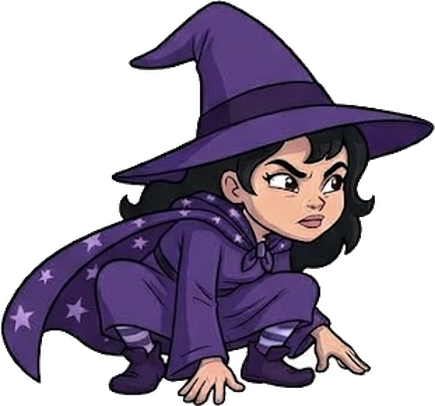
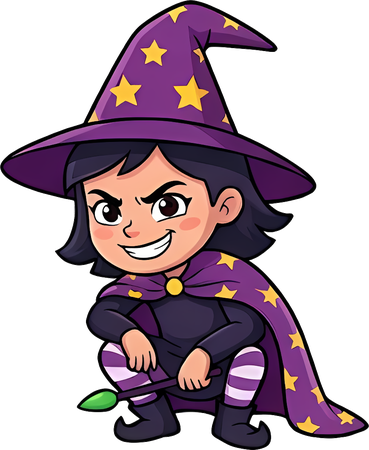
Cambia Dragones y fantasía por las imágenes nuevas en alta calidad
Personajes, poses, dragones bebés, tesoro, lo que cruza la pantalla, los 5
fondos y la escena final nuevos, pasados a 16:9. El Mago Abuelo suma poses de
cubrirse y huir, y Morgana una escena espiando desde un lado (con sus frases
de amenaza). Se quitan las poses de celebrar viejas.

diff --git a/assets/manifest.js b/assets/manifest.js
@@ -73,19 +73,21 @@ window.ASSETS = {
     villain_laugh: 'dragones/morgana_risa.png',          // escenas de fondo: se asoma con la varita
     villain_taunt: 'dragones/morgana_agachada.png',      // presenta el capítulo 4
     villain_scared: 'dragones/morgana_asustada.png',     // huye del Hada del Bosque
+    villain_run:   'dragones/morgana_corriendo.png',
+    villain_face:  'dragones/morgana_cara.png',          // espía desde un lado
     friend2_help:  'dragones/mago_ayuda.png',            // pelea: el Mago Abuelo suplica asustado
+    friend2_cower: 'dragones/mago_cubre.png',            // pelea: se cubre cuando lo atacan
+    friend2_flee:  'dragones/mago_huye.png',
     treasure: 'dragones/tesoro_gema.png',
     friend1: 'dragones/hada_del_bosque.png',
     friend2: 'dragones/mago_abuelo.png',
     friend3: 'dragones/hechicera_buena.png',
-    friend1_cheer: 'dragones/hada_celebra.png',
-    friend2_cheer: 'dragones/mago_celebra.png',
-    friend3_cheer: 'dragones/hechicera_celebra.png',
+    end:     'dragones/final.jpg',
     bg_1:    'dragones/fondo_1_nido.jpg',
     bg_2:    'dragones/fondo_2_bosque.jpg',
-    bg_3:    'dragones/fondo_3_el_rio.png',
-    bg_4:    'dragones/fondo_4_la_cueva.png',
-    bg_5:    'dragones/fondo_5_el_volcan.png',
+    bg_3:    'dragones/fondo_3_el_rio.jpg',
+    bg_4:    'dragones/fondo_4_la_cueva.jpg',
+    bg_5:    'dragones/fondo_5_el_volcan.jpg',
     distractor_mariposa:   'dragones/mariposa.png',
     distractor_murcielago: 'dragones/murcielago.png',
     distractor_ardilla:    'dragones/ardilla.png'

diff --git a/juego/modos/historia/mundos/dragones.js b/juego/modos/historia/mundos/dragones.js
@@ -83,7 +83,8 @@ registrarMundo('fantasy', {
       { name: 'pelea_morgana_mago', kind: 'fight', friend: 'friend2', voice: 'ayuda', minLevel: 2 },
       { name: 'morgana_se_asoma', kind: 'peek', voice: 'risa', minLevel: 1 },
       { name: 'hada_persigue_morgana', kind: 'chase', friend: 'friend1', villainPose: 'villain_scared', voice: 'alto', minLevel: 2 },
-      { name: 'morgana_escabulle', kind: 'sneak', voice: 'burla', minLevel: 1 }
+      { name: 'morgana_escabulle', kind: 'sneak', voice: 'burla', minLevel: 1 },
+      { name: 'morgana_espia', kind: 'face', voice: 'amenaza', minLevel: 3 }
     ],
     // Voces de los personajes (las graba herramientas/generar_voces.js; con emoción, generar_voces_elevenlabs.js).
     // Cada capítulo dice cosas distintas: text[0] = capítulo 1 ... text[3] = capítulo 4, text[4] = jefe final.
